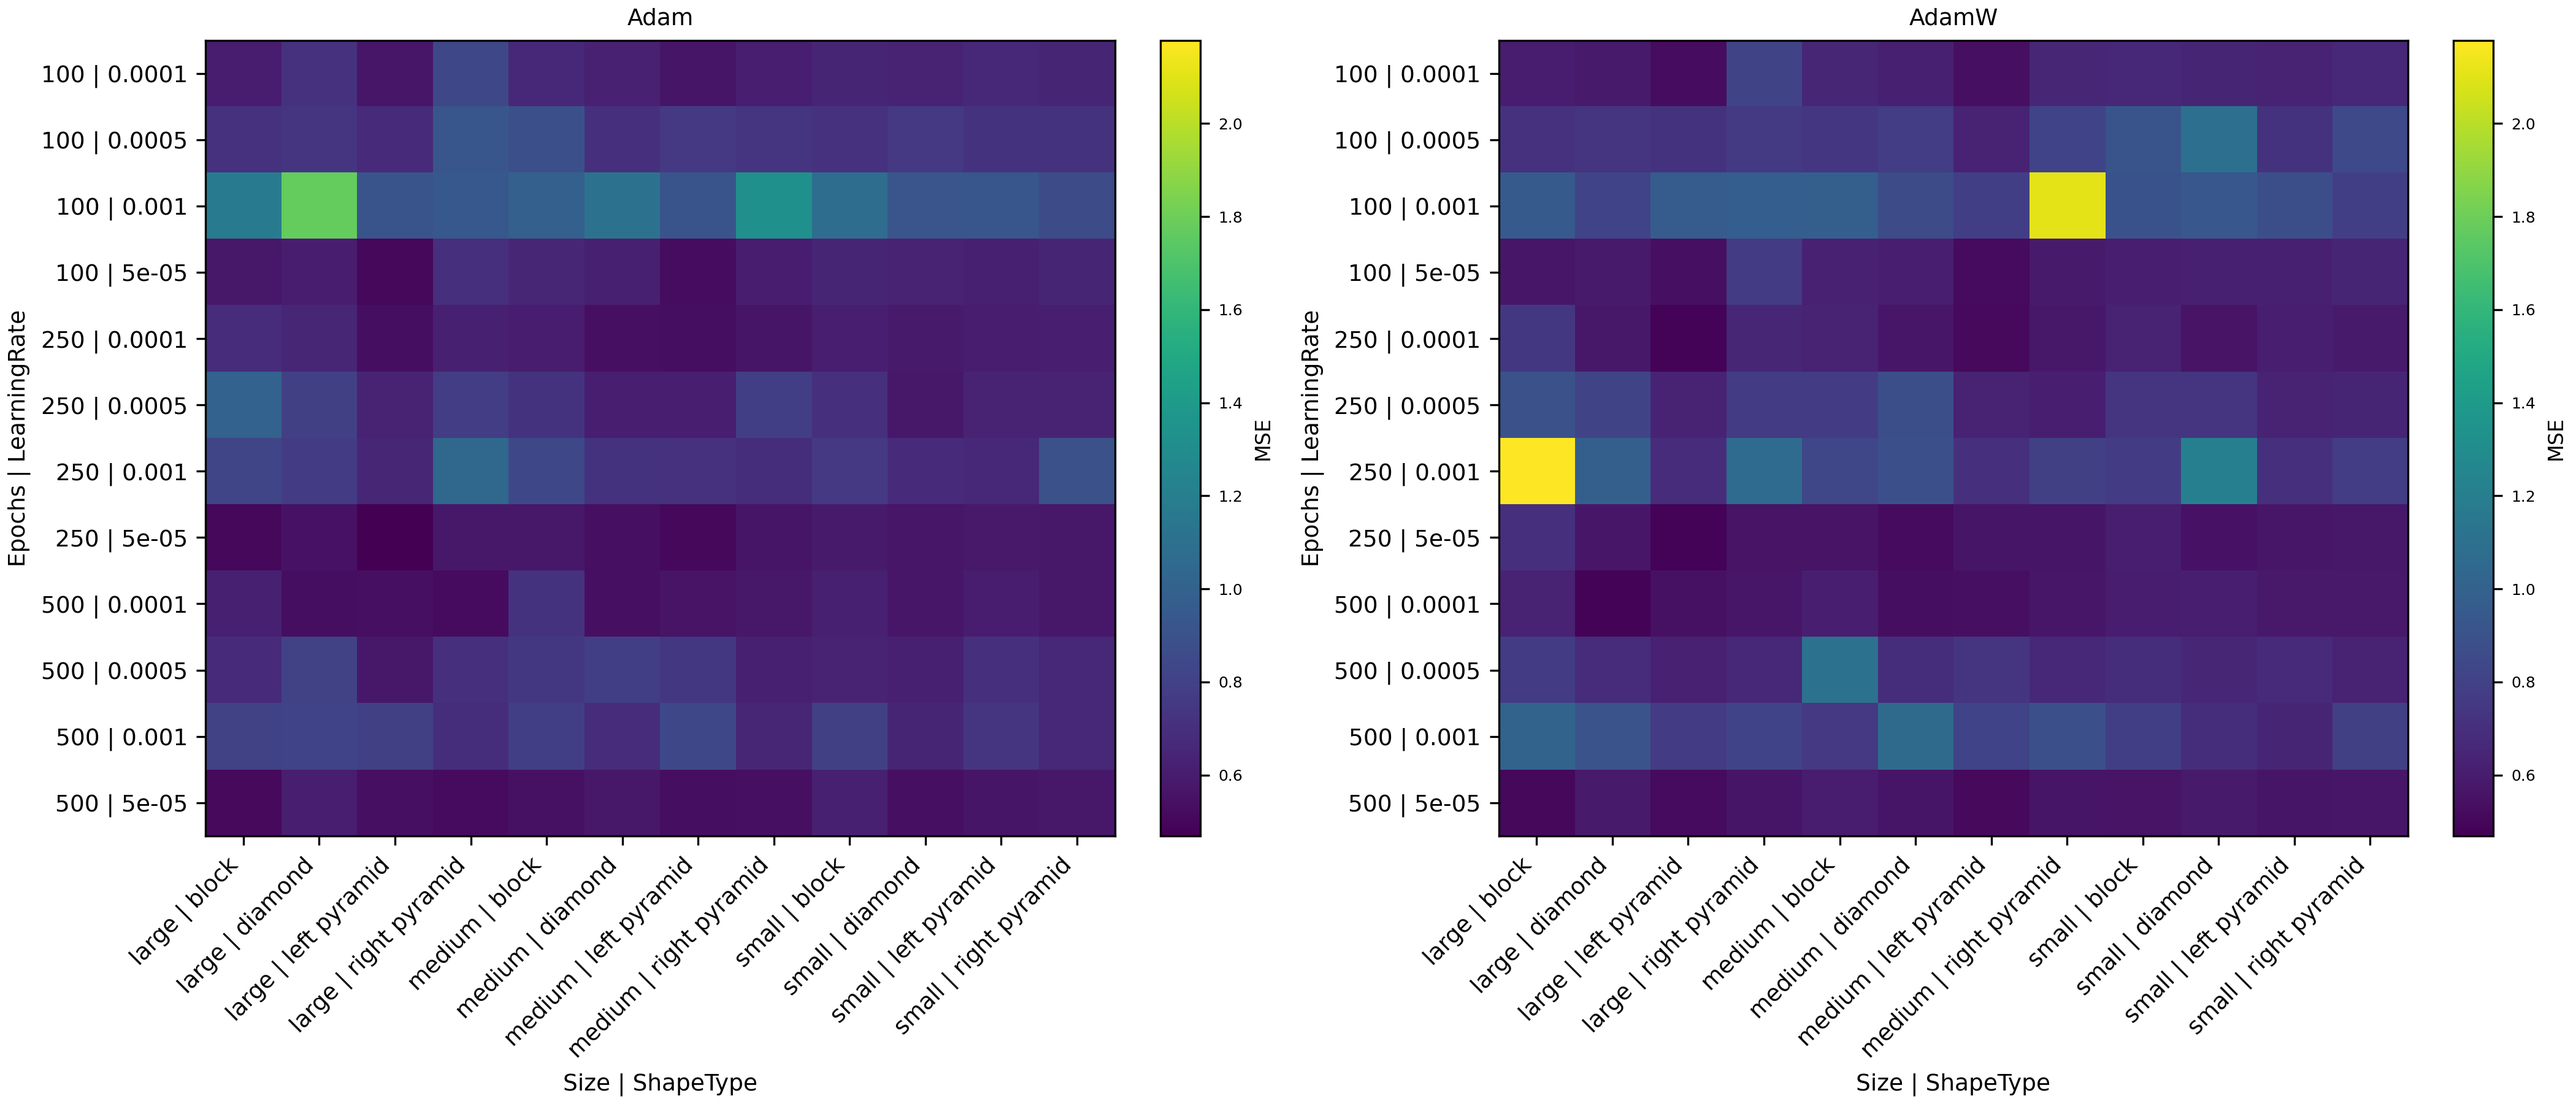
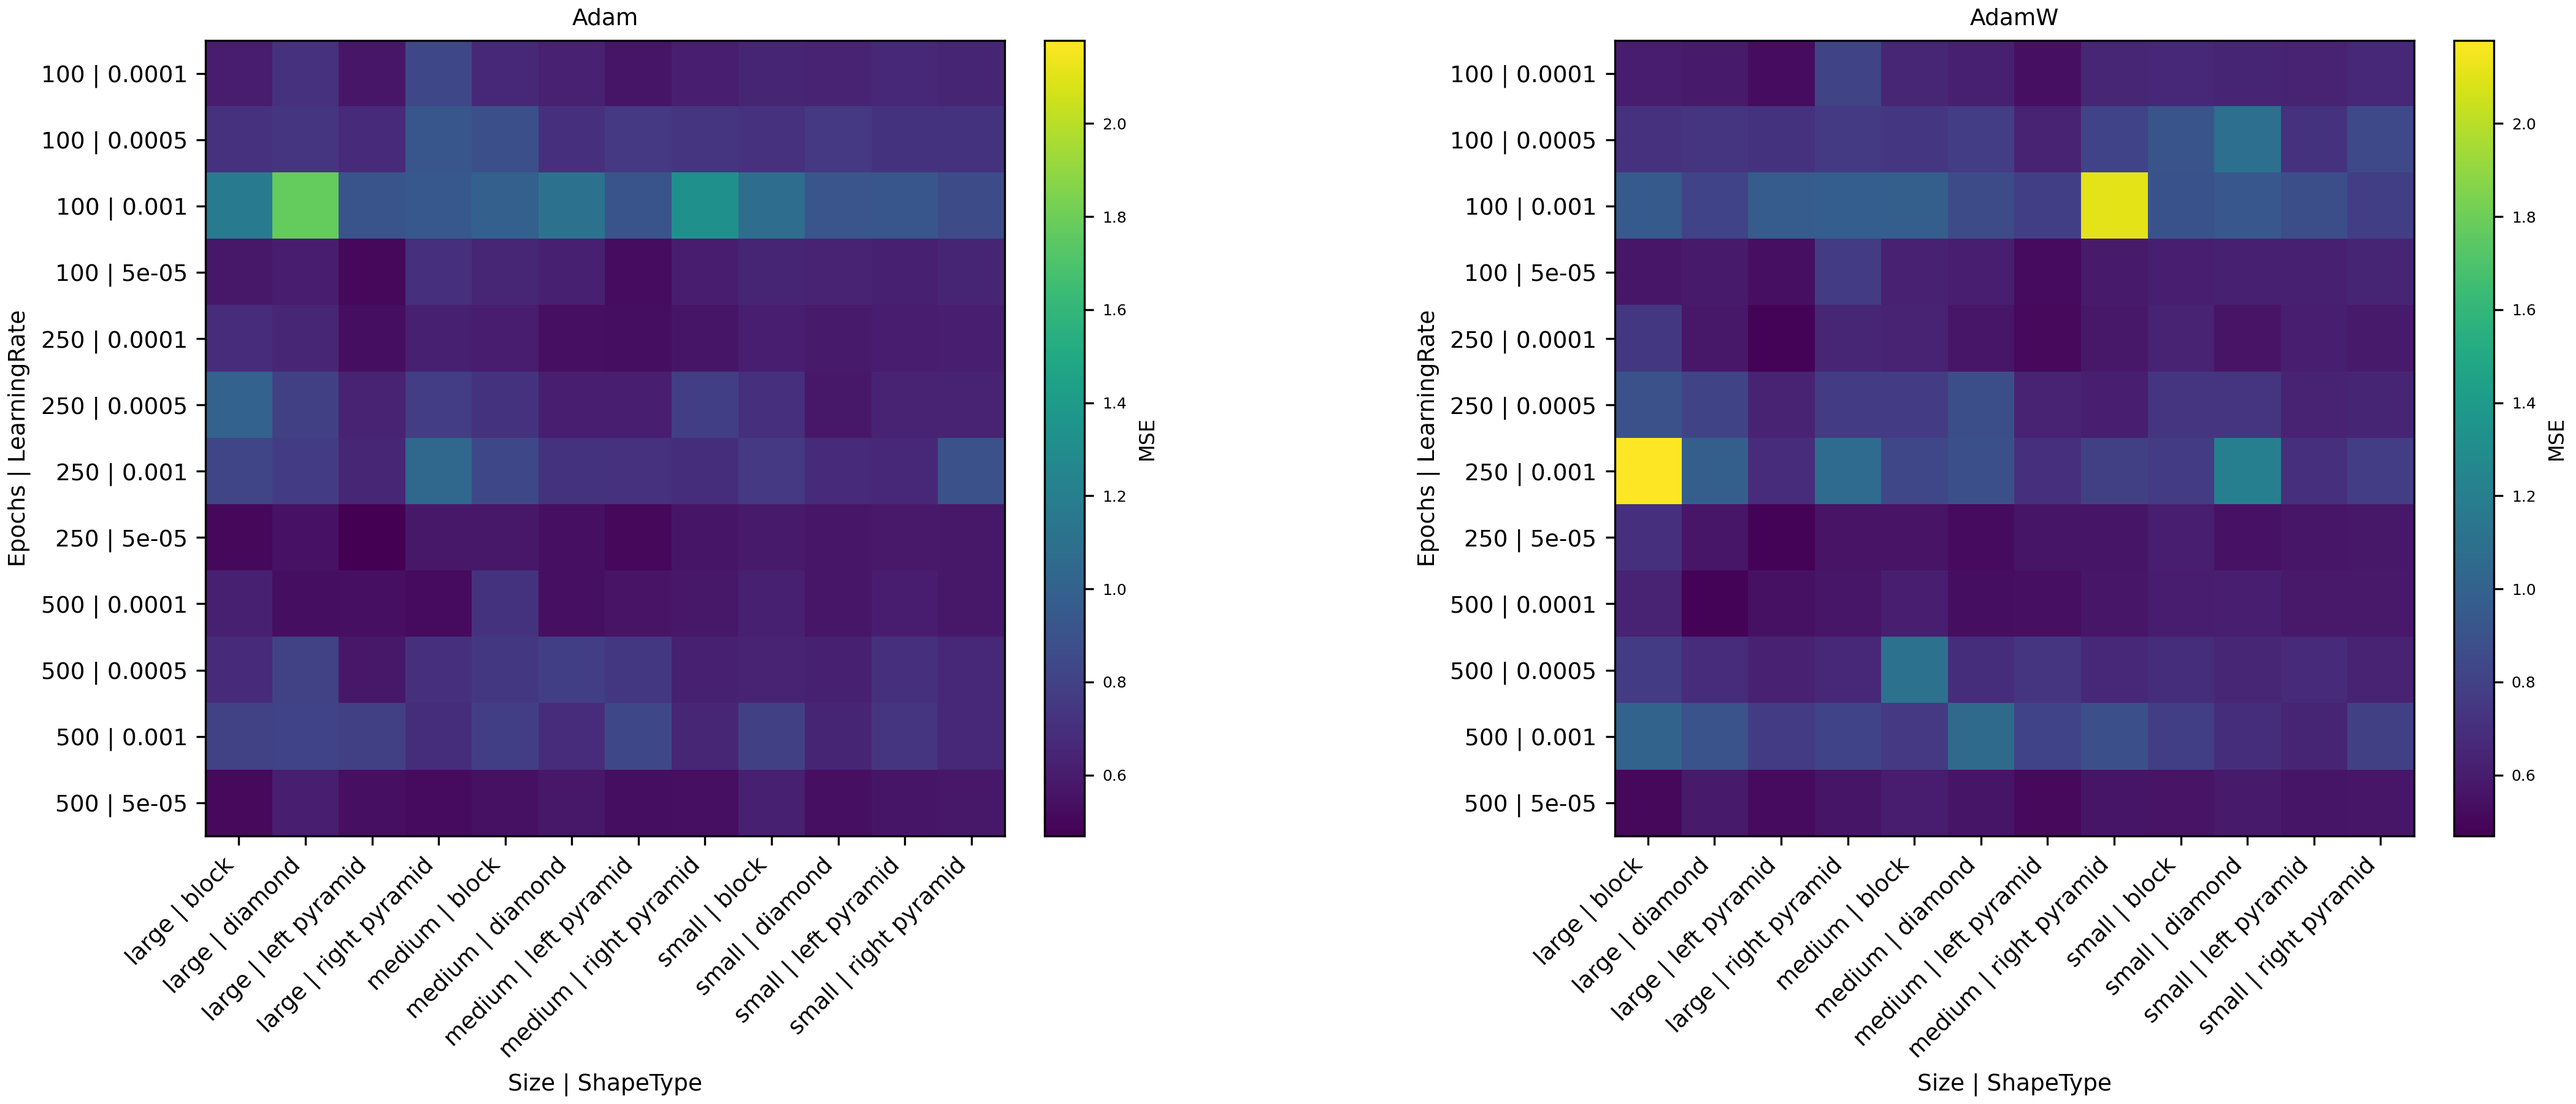
Updated graphs for standardization

diff --git a/boxplot_epochs.py b/boxplot_epochs.py
@@ -4,13 +4,12 @@ import matplotlib.pyplot as plt
 import re
 
 plt.rcParams.update({
-    "font.size": 9,
-    "axes.titlesize": 9, #Nothing
-    "axes.labelsize": 8.6, #Bottom MSE text
-    "xtick.labelsize": 8, #x tick marks
-    "ytick.labelsize": 8, #y tick marks
-    "axes.linewidth": 1, #Rectangle Border
-    "figure.dpi": 300
+    "font.size": 24,          # base size for everything
+    "axes.titlesize": 28,     # title font
+    "axes.labelsize": 26,     # x‑/y‑label font
+    "xtick.labelsize": 24,    # tick labels
+    "ytick.labelsize": 24,
+    "axes.linewidth": 3 
 })
 
 results = pd.read_csv("results.csv")
@@ -43,8 +42,12 @@ gap = .0001                      # distance you want between boxes
 pos = [1, 1+gap, 1+2*gap]          # 1 → 1.35 → 1.70
 
 fig, (ax_box, ax_tbl) = plt.subplots(
-    2, 1, figsize=(8, 5),
-    gridspec_kw={'height_ratios':[0.9,1]}
+    2, 1,
+    figsize=(8, 6),
+    gridspec_kw={
+        'height_ratios': [3, 1],
+        'hspace': 0.6     # ← increase from 0.25 to 0.6 (or more)
+    }
 )
 
 # --- compact box‑plot -------------------------------------------------
@@ -53,14 +56,14 @@ ax_box.boxplot(
     vert=False,
     positions=pos,                 # <<–––– here
     widths=gap*0.5,               # a bit narrower than the gap
-    boxprops     =dict(linewidth=1),
-    whiskerprops =dict(linewidth=1),
-    capprops     =dict(linewidth=1),
-    medianprops  =dict(linewidth=1),
-    flierprops   =dict(marker='o', markersize=2,
+    boxprops     =dict(linewidth=3),
+    whiskerprops =dict(linewidth=3),
+    capprops     =dict(linewidth=3),
+    medianprops  =dict(linewidth=3),
+    flierprops   =dict(marker='o', markersize=12,
                        markerfacecolor='none',
                        markeredgecolor='black',
-                       markeredgewidth=1)
+                       markeredgewidth=2)
 )
 
 ax_box.set_xlabel('MSE')
@@ -78,9 +81,8 @@ tbl = ax_tbl.table(cellText=summary.values,
                    colLabels=summary.columns,
                    cellLoc='center', rowLoc='center',
                    loc='center')
-tbl.auto_set_font_size(False)
-tbl.set_fontsize(8)
-
-plt.tight_layout()
-fig.subplots_adjust(hspace=0)
+                   
+tbl.auto_set_font_size(False) 
+tbl.set_fontsize(22)     
+ax_tbl.set_title("Summary Statistic for explored epochs", fontsize=26)
 plt.show()

diff --git a/explain_model.py b/explain_model.py
@@ -7,13 +7,19 @@ from create_model import create_model
 import matplotlib.pyplot as plt  
 
 plt.rcParams.update({
-    "font.size": 10,          # base size for everything
-    "axes.titlesize": 20,     # title of the plot
-    "axes.labelsize": 12,     # axis labels
-    "xtick.labelsize": 11,
-    "ytick.labelsize": 11,
-    "legend.fontsize": 11,
+    # "font.size": 200,
+    # "axes.titlesize": 200,
+    # "axes.labelsize": 200,
+    # "xtick.labelsize": 200,
+    # "ytick.labelsize": 200,
+    # "legend.fontsize": 200,
+    "text.color": "black",           # <-- set default text color to black
+    "axes.labelcolor": "black",      # <-- axis label color
+    "xtick.color": "black",          # <-- x tick color
+    "ytick.color": "black",          # <-- y tick color
+    "axes.edgecolor": "black"        # <-- axes edge (border) color
 })
+
 
 
 device = torch.device("cuda" if torch.cuda.is_available() else "cpu")
@@ -43,7 +49,8 @@ bg_idx     = np.random.choice(len(X_train), size=1000, replace=False)
 background = X_train[bg_idx].to(device)
 explainer  = shap.GradientExplainer(model, background)
 test_loader = DataLoader(X_test, batch_size=32, shuffle=False)
-inputs = X_test[:10].to(device)
+inputs = X_test.to(device)
+print(len(inputs))
 
 sv = explainer.shap_values(inputs)          # (32, 4, 1)  *or* list[...]
 
@@ -75,11 +82,11 @@ fig = plt.gcf()
 # loop through all axes (main plot + colorbar)
 for ax in fig.axes:
     # set title / axis labels
-    ax.title.set_fontsize(26)
-    ax.xaxis.label.set_fontsize(26)
-    ax.yaxis.label.set_fontsize(26)
+    ax.title.set_fontsize(30)
+    ax.xaxis.label.set_fontsize(30)
+    ax.yaxis.label.set_fontsize(30)
     # set tick labels
-    ax.tick_params(axis='both', which='major', labelsize=22)
+    ax.tick_params(axis='both', which='major', labelsize=26)
 
 plt.tight_layout()
 plt.show()

diff --git a/boxplot_shape.py b/boxplot_shape.py
@@ -47,8 +47,14 @@ summary = (pd.DataFrame({"Left":  pd.Series(left).describe(),
            .loc[['count','mean','std','min','25%','50%','75%','max']]
            .T.round(3))
 
-fig, (ax_box, ax_tbl) = plt.subplots(2, 1, figsize=(8, 6),  
-                                     gridspec_kw={'height_ratios':[3, 1]}) 
+fig, (ax_box, ax_tbl) = plt.subplots(
+    2, 1,
+    figsize=(8, 6),
+    gridspec_kw={
+        'height_ratios': [3, 1],
+        'hspace': 0.6     # ← increase from 0.25 to 0.6 (or more)
+    }
+)
 
 ax_box.boxplot([left, right, diamond, block],                       
                vert=False,
@@ -63,7 +69,7 @@ ax_box.boxplot([left, right, diamond, block],
                                markeredgewidth=2))
 
 ax_box.set_xlabel("MSE", labelpad=0)                         
-ax_box.set_ylabel("Shape")                                     
+ax_box.set_ylabel("Shape", labelpad=15)                                     
 ax_box.tick_params(axis='both', which='both', width=2, length=8)  
 
 ax_tbl.axis('off')                                 
@@ -81,5 +87,6 @@ tbl = ax_tbl.table(cellText=summary.values,
                    loc='center')
 
 tbl.auto_set_font_size(False)  
-tbl.set_fontsize(22)           
+tbl.set_fontsize(22)   
+ax_tbl.set_title("Summary Statistic for explored shapes", fontsize=26)
 plt.show()

diff --git a/boxplot_optimizer.py b/boxplot_optimizer.py
@@ -43,8 +43,15 @@ summary = (pd.DataFrame({"Adam":  pd.Series(adam).describe(),
 gap = .25                          # distance you want between boxes
 pos = [1, 1+gap]            # 1 → 1.35 → 1.70
 
-fig, (ax_box, ax_tbl) = plt.subplots(2, 1, figsize=(8, 6),       
-                                     gridspec_kw={'height_ratios':[3,1], 'hspace':0.25}) 
+fig, (ax_box, ax_tbl) = plt.subplots(
+    2, 1,
+    figsize=(8, 6),
+    gridspec_kw={
+        'height_ratios': [3, 1],
+        'hspace': 0.6     # ← increase from 0.25 to 0.6 (or more)
+    }
+)
+
 
 ax_box.boxplot([adam, adamW],                  
                vert=False,
@@ -61,7 +68,7 @@ ax_box.boxplot([adam, adamW],
 
 
 ax_box.set_xlabel("MSE", labelpad=0)                       
-ax_box.set_ylabel("Optimizer")                                   
+ax_box.set_ylabel("Optimizer", labelpad=15)                                   
 ax_box.tick_params(axis='both', which='both', width=2, length=8) 
 
 ax_box.set_ylim(pos[0]-gap*0.6, pos[-1]+gap*0.6)
@@ -81,7 +88,8 @@ tbl = ax_tbl.table(cellText=summary.values,
                    loc='center')
 
 tbl.auto_set_font_size(False) 
-tbl.set_fontsize(22)          
+tbl.set_fontsize(22)   
+ax_tbl.set_title("Summary Statistic for explored optimizers", fontsize=26)
 plt.show()
 
 

diff --git a/boxplot_lr.py b/boxplot_lr.py
@@ -48,8 +48,14 @@ summary = (pd.DataFrame({"0.001":  pd.Series(lr_1).describe(),
            .T.round(3))
 
 
-fig, (ax_box, ax_tbl) = plt.subplots(2, 1, figsize=(8, 6),      
-                                     gridspec_kw={'height_ratios':[3, 1]}) 
+fig, (ax_box, ax_tbl) = plt.subplots(
+    2, 1,
+    figsize=(8, 6),
+    gridspec_kw={
+        'height_ratios': [3, 1],
+        'hspace': 0.6     # ← increase from 0.25 to 0.6 (or more)
+    }
+)
 
 ax_box.boxplot([lr_1, lr_2, lr_3, lr_4],                     
                vert=False,
@@ -64,7 +70,7 @@ ax_box.boxplot([lr_1, lr_2, lr_3, lr_4],
                                markeredgewidth=2))
 
 ax_box.set_xlabel("MSE", labelpad=0)                         
-ax_box.set_ylabel("Learning Rate")                                      
+ax_box.set_ylabel("Learning Rate", labelpad=15)                                      
 ax_box.tick_params(axis='both', which='both', width=2, length=8) 
 
 ax_tbl.axis('off')                                          
@@ -82,7 +88,8 @@ tbl = ax_tbl.table(cellText=summary.values,
                    loc='center')
 
 tbl.auto_set_font_size(False) 
-tbl.set_fontsize(22)          
+tbl.set_fontsize(22)     
+ax_tbl.set_title("Summary Statistic for explored learning rates", fontsize=26)
 plt.show()
 
 

diff --git a/boxplot_size.py b/boxplot_size.py
@@ -32,8 +32,12 @@ gap = .0001                      # distance you want between boxes
 pos = [1, 1+gap, 1+2*gap]          # 1 → 1.35 → 1.70
 
 fig, (ax_box, ax_tbl) = plt.subplots(
-    2, 1, figsize=(8, 5),
-    gridspec_kw={'height_ratios':[0.9,1]}
+    2, 1,
+    figsize=(8, 6),
+    gridspec_kw={
+        'height_ratios': [3, 1],
+        'hspace': 0.6     # ← increase from 0.25 to 0.6 (or more)
+    }
 )
 
 ax_box.boxplot(
@@ -51,7 +55,7 @@ ax_box.boxplot(
                        markeredgewidth=2)
 )
 ax_box.set_xlabel('MSE')
-ax_box.set_ylabel('Size', labelpad=25)  # Increase from default (usually ~4-10)                    
+ax_box.set_ylabel('Size', labelpad=15)  # Increase from default (usually ~4-10)                    
 ax_box.tick_params(axis='both', which='both', width=2, length=8)  
 
 ax_box.set_yticks(pos)
@@ -70,4 +74,5 @@ tbl.set_fontsize(22)
 
 plt.tight_layout()
 fig.subplots_adjust(hspace=0)
+ax_tbl.set_title("Summary Statistic for explored size", fontsize=26)
 plt.show()

diff --git a/epochs_vs_learning_rate.py b/epochs_vs_learning_rate.py
@@ -112,12 +112,14 @@ cbar.update_ticks()
 ax.set(
     title   = "Learning Rate vs Epochs Heatmap against MSE",
     xlabel  = "Learning Rate",
-    ylabel  = "Epochs",
     xticks  = np.arange(4),
     xticklabels = ["0.001", "0.0005", "0.0001", "0.00005"],
     yticks  = np.arange(3),
     yticklabels = ["500", "250", "100"],
 )
+
+ax.set_ylabel("Epochs", labelpad=20)  # Increase pad to move it left
+ax.yaxis.set_label_position("left")  # (this is default, but explicit)
 
 plt.tight_layout()
 plt.show()

diff --git a/goof_graph.py b/goof_graph.py
@@ -43,6 +43,8 @@ global_max = df['mse'].max()
 
 # 3) Plot with the same vmin/vmax
 fig, axes = plt.subplots(1, 2, figsize=(14, 6), dpi=300, constrained_layout=True)
+fig, axes = plt.subplots(1, 2, figsize=(14, 6), dpi=300, constrained_layout=True)
+fig.set_constrained_layout_pads(wspace=0.2, hspace=0.1)
 for ax, opt in zip(axes, ['Adam', 'AdamW']):
     ax.set_title(opt)
     subset = df[df['optimizer'] == opt]

diff --git a/leaderboard.py b/leaderboard.py
@@ -115,7 +115,7 @@ plt.tight_layout()
 # colour‑bar
 cbar = fig.colorbar(mpl.cm.ScalarMappable(norm=norm, cmap=cmap),
                     ax=ax, shrink=0.6, pad=0.02)
-cbar.set_label("MSE")
+cbar.set_label("MSE", labelpad=20, rotation=90, fontsize=20, color="black", ha="left")
 
 # comment out the next line if you only want the file,
 # or if matplotlib.use('Agg') is active

diff --git a/gradient_loss.py b/gradient_loss.py
@@ -75,10 +75,10 @@ surf = ax.plot_surface(
 
 ax.plot(
     px, py, pz,
-    color='crimson', marker='o', markersize=4,
+    color='crimson', marker='o', markersize=5,
     linewidth=3, label='Gradient descent path'
 )
-ax.legend(fontsize=22, loc='upper right',)
+ax.legend(fontsize=26, loc='upper right',)
 
 ax.set_xlabel('x', labelpad=30) 
 ax.set_ylabel('y', labelpad=30) 
